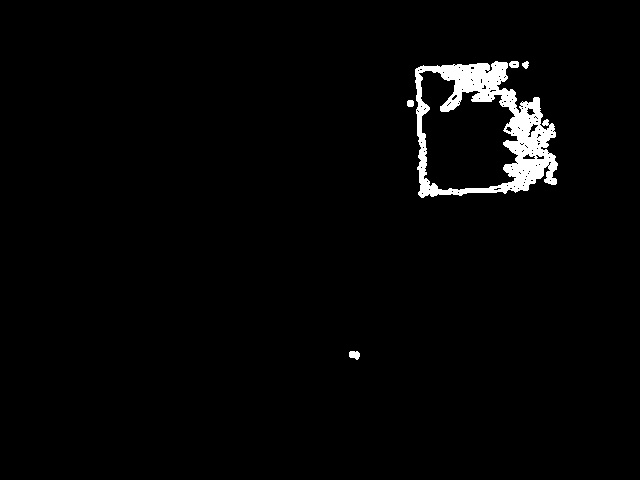
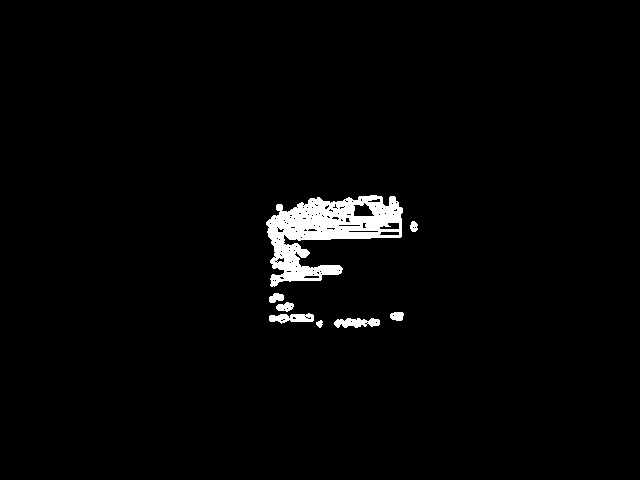
recovering from branching cock-up shitstorm waste of time

Changed region(s): [[0.625, 0.125, 0.875, 0.4062], [0.4062, 0.4062, 0.6562, 0.6875], [0.5312, 0.7188, 0.5625, 0.75]]

diff --git a/src/python/cell.py b/src/python/cell.py
@@ -2,38 +2,46 @@ import numpy as np
 import cv2
 from matplotlib import pyplot as plt
 import argparse 
-
-
+from thresholding import threshold
+import time
 parser = argparse.ArgumentParser()
-parser.add_argument("img", help = "give the name of a file in ../images/", type=str)
+parser.add_argument("img", help = "give the name of a file in ../../images/", type=str)
 args = parser.parse_args() 
+threshold(args.img)
+time.sleep(2)
 
-frame = cv2.imread('../images/{0}'.format(args.img))
+frame = cv2.imread('../../images/t-{0}'.format(args.img))
+orig  =  cv2.imread('../../images/{0}'.format(args.img))
+
 
 def mask(img):
   biggest =None
   max_area = 0
   grey = cv2.cvtColor(img,cv2.COLOR_RGB2GRAY)
-  blk = cv2.bitwise_not(grey)
+  #blk = cv2.bitwise_not(grey)
   kernel = cv2.getStructuringElement(cv2.MORPH_ELLIPSE,(3,3))
-  res = cv2.morphologyEx(blk,cv2.MORPH_OPEN,kernel)
-  ret,thresh = cv2.threshold(blk,127,255,0)
+  res = cv2.morphologyEx(grey,cv2.MORPH_OPEN,kernel)
+  ret,thresh = cv2.threshold(grey,127,255,0)
   contours, hierarchy = cv2.findContours(thresh,cv2.RETR_TREE,cv2.CHAIN_APPROX_NONE)
   dest = np.zeros(thresh.shape, np.uint8)
-  print contours[1:]
+  print contours[::1]
   print len(contours)
   print hierarchy
-  for cnt in contours[1:]:
-    if cnt.any() in hierarchy[0][1:]:
-      rect  = cv2.minAreaRect(cnt)
-      points = cv2.cv.BoxPoints(rect)
-      points  = np.int0(np.around(points))
-      cv2.drawContours(dest, [cnt],0,(0,255,0),2)
-      cv2.polylines(dest, [points], True,( 255,255,255), 2 )
-    cv2.imshow('contour-highlighted image.jpg', dest)
-    cv2.imwrite("../images/bound.jpg", dest)
-    cv2.imshow('edges', thresh)
+  for cnt in contours[::1]:
+    rect  = cv2.minAreaRect(cnt)
+    points = cv2.cv.BoxPoints(rect)
+    points  = np.int0(np.around(points))
+    #cv2.drawContours(dest, [cnt],0,(0,255,0),2)
+    #cv2.polylines(dest, [points], True,( 255,255,255), 2 )
+    cv2.fillPoly(orig, [cnt], (100,20,90), 4)
+    cv2.fillPoly(dest, [cnt], (255,255,255), 4)
+
+    x = cv2.cvtColor(dest,cv2.COLOR_GRAY2RGB)
+    cv2.imshow('contour-highlighted image.jpg', x)
+    cv2.imwrite("../../images/bound.jpg", x)
+
+    cv2.imshow('masked image', orig)
 if __name__ == '__main__':
-  mask(frame)	
+  mask(frame) 
   if cv2.waitKey(0) & 0xff == 27:  #escape
     cv2.destroyAllWindows()

diff --git a/src/python/cell_beta.py b/src/python/cell_beta.py
@@ -1,0 +1,39 @@
+import numpy as np
+import cv2
+from matplotlib import pyplot as plt
+import argparse 
+
+
+parser = argparse.ArgumentParser()
+parser.add_argument("img", help = "give the name of a file in ../../images/", type=str)
+args = parser.parse_args() 
+
+frame = cv2.imread('../../images/{0}'.format(args.img))
+
+def mask(img):
+  biggest =None
+  max_area = 0
+  grey = cv2.cvtColor(img,cv2.COLOR_RGB2GRAY)
+  blk = cv2.bitwise_not(grey)
+  kernel = cv2.getStructuringElement(cv2.MORPH_ELLIPSE,(3,3))
+  res = cv2.morphologyEx(blk,cv2.MORPH_OPEN,kernel)
+  ret,thresh = cv2.threshold(blk,127,255,0)
+  contours, hierarchy = cv2.findContours(thresh,cv2.RETR_TREE,cv2.CHAIN_APPROX_NONE)
+  dest = np.zeros(thresh.shape, np.uint8)
+  print contours[1:]
+  print len(contours)
+  print hierarchy
+  for cnt in contours[1:]:
+    if cnt.any() in hierarchy[0][1:]:
+      rect  = cv2.minAreaRect(cnt)
+      points = cv2.cv.BoxPoints(rect)
+      points  = np.int0(np.around(points))
+      cv2.drawContours(dest, [cnt],0,(0,255,0),2)
+      cv2.polylines(dest, [points], True,( 255,255,255), 2 )
+    cv2.imshow('contour-highlighted image.jpg', dest)
+    cv2.imwrite("../../images/bound.jpg", dest)
+    cv2.imshow('edges', thresh)
+if __name__ == '__main__':
+  mask(frame)	
+  if cv2.waitKey(0) & 0xff == 27:  #escape
+    cv2.destroyAllWindows()

diff --git a/src/python/thresholding.py b/src/python/thresholding.py
@@ -8,7 +8,7 @@ parser.add_argument("image", help = "give the name of a file in ../images/", typ
 args = parser.parse_args()
 
 def threshold(z):
-  img = cv2.imread("../images/{0}".format(z))
+  img = cv2.imread("../../images/{0}".format(z))
   hsv = cv2.cvtColor(img, cv2.COLOR_BGR2HSV)
   (hue, sat, val)  = cv2.split(hsv)
   hf, hue  = cv2.threshold(hue, 255, 255, cv2.THRESH_BINARY)   #0,20
@@ -20,13 +20,13 @@ def threshold(z):
   blur = cv2.GaussianBlur(gray, (5,5), 0)
   mask = ors.cntr(gray)
   edges = cv2.Canny(mask,100,200)
-  cv2.imshow('mask',edges)
-  cv2.imshow('hue',hue)
-  cv2.imshow('sat',sat)
-  cv2.imshow('val',val)
+  #cv2.imshow('mask',edges)
+  #cv2.imshow('hue',hue)
+  #cv2.imshow('sat',sat)
+  #cv2.imshow('val',val)
 
-  cv2.imwrite("../images/t-{0}".format(z), edges)
-  if cv2.waitKey(0) & 0xff == 27:  #escape
-    cv2.destroyAllWindows()
+  cv2.imwrite("../../images/t-{0}".format(z), edges)
+  #if cv2.waitKey(0) & 0xff == 27:  #escape
+  #   cv2.destroyAllWindows()
 
 threshold(args.image)
